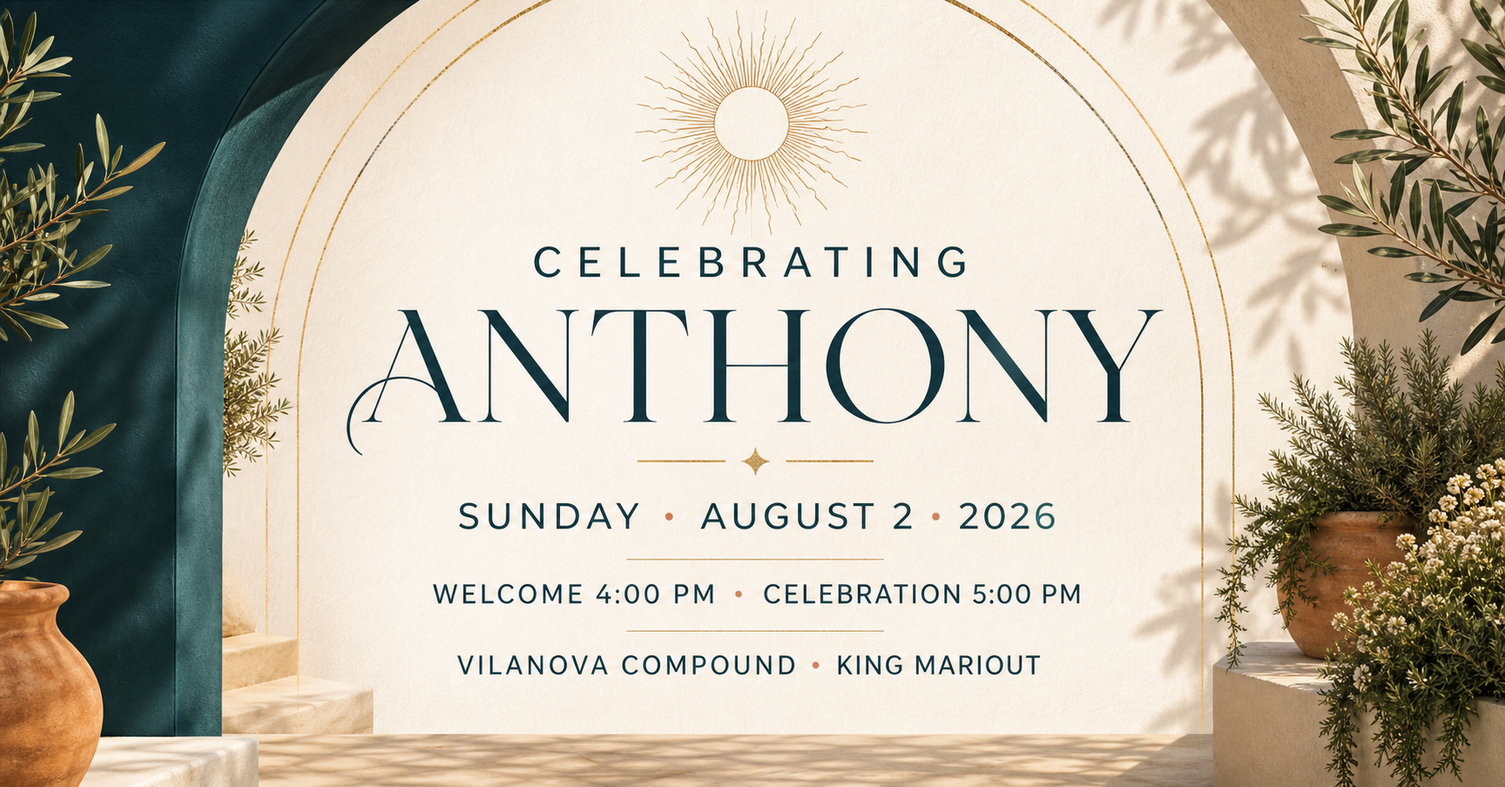
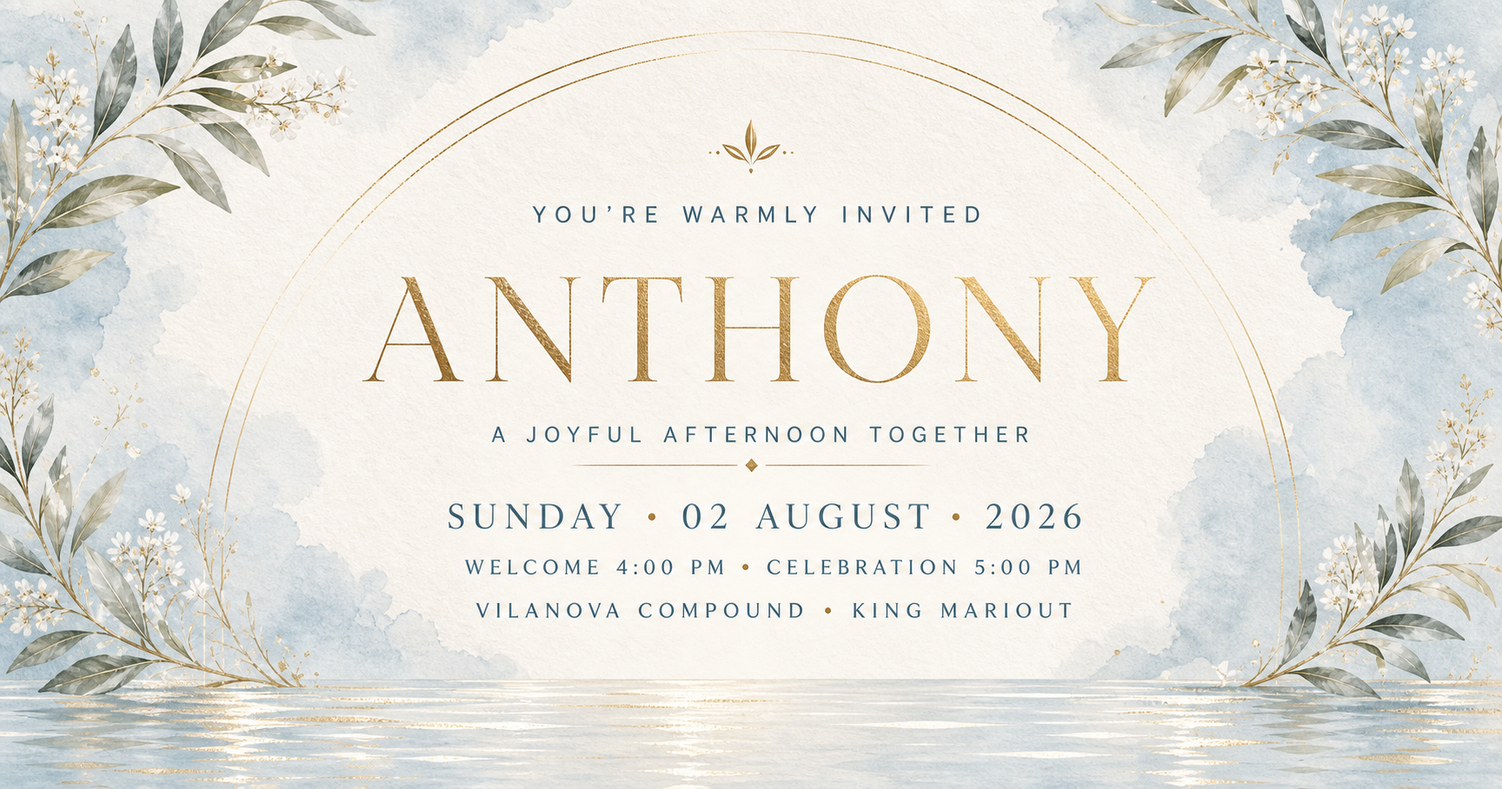
Apply agent-directed invitation redesign

diff --git a/anthony-celebration.html b/anthony-celebration.html
@@ -3,202 +3,145 @@
 <head>
   <meta charset="utf-8">
   <meta name="viewport" content="width=device-width,initial-scale=1,viewport-fit=cover">
-  <meta name="theme-color" content="#edf4f7">
+  <meta name="theme-color" content="#dcebf1">
   <title>Celebrating Anthony · August 2, 2026</title>
   <meta name="description" content="Join us for Anthony's special celebration at Vilanova Compound, King Mariout, Alexandria on August 2, 2026.">
   <meta property="og:title" content="Celebrating Anthony · August 2, 2026">
   <meta property="og:description" content="A beautiful afternoon of joy, love and togetherness at Vilanova Compound, King Mariout.">
   <meta property="og:type" content="website">
-  <meta property="og:url" content="https://abanobsalib.github.io/sofret-mariane-catering/anthony-celebration.html?v=3">
-  <meta property="og:image" content="https://abanobsalib.github.io/sofret-mariane-catering/assets/anthony-celebration-og.png?v=3">
+  <meta property="og:url" content="https://abanobsalib.github.io/sofret-mariane-catering/anthony-celebration.html?v=4">
+  <meta property="og:image" content="https://abanobsalib.github.io/sofret-mariane-catering/assets/anthony-celebration-og.png?v=4">
   <meta name="twitter:card" content="summary_large_image">
   <link rel="preconnect" href="https://fonts.googleapis.com">
   <link rel="preconnect" href="https://fonts.gstatic.com" crossorigin>
-  <link href="https://fonts.googleapis.com/css2?family=DM+Sans:wght@400;500;600;700&family=Italiana&display=swap" rel="stylesheet">
+  <link href="https://fonts.googleapis.com/css2?family=Cormorant+Garamond:wght@400;500;600&family=Manrope:wght@400;500;600;700&display=swap" rel="stylesheet">
   <style>
-    :root{
-      --navy:#173e51;--blue:#769eb4;--blue-soft:#d9e9f0;--sage:#859279;
-      --gold:#c8a25a;--gold-deep:#9e7738;--cream:#fffaf0;--paper:#fffdf7;
-      --ink:#233d47;--muted:#6a7b81;--line:rgba(23,62,81,.13);
-      --shadow:0 34px 90px -42px rgba(32,68,84,.48)
-    }
-    *{box-sizing:border-box}
-    html{scroll-behavior:smooth}
-    body{margin:0;background:#edf4f7;color:var(--ink);font-family:"DM Sans",system-ui,sans-serif;-webkit-font-smoothing:antialiased}
-    button,input,select,textarea{font:inherit}a{color:inherit}button,a{-webkit-tap-highlight-color:transparent}
-    .page{overflow:hidden;background:
-      radial-gradient(circle at 0 6%,rgba(118,158,180,.24),transparent 28rem),
-      radial-gradient(circle at 100% 45%,rgba(200,162,90,.13),transparent 25rem),
-      linear-gradient(180deg,#eaf3f7,#fffaf0 42%,#eef4f0 75%,#f7efe1)}
+    :root{--ink:#18384a;--powder:#ddecf2;--powder-deep:#a9c5d2;--ivory:#fbf7ed;--paper:#fffdf8;--sage:#82917c;--gold:#b89555;--gold-light:#e3c98f;--muted:#6b7d84;--line:rgba(24,56,74,.14);--ease:cubic-bezier(.22,1,.36,1)}
+    *{box-sizing:border-box}html{scroll-behavior:smooth}body{margin:0;background:var(--powder);color:var(--ink);font-family:Manrope,system-ui,sans-serif;-webkit-font-smoothing:antialiased}button,input,select,textarea{font:inherit}button,a{-webkit-tap-highlight-color:transparent}a{color:inherit}
+    .page{overflow:hidden;background:linear-gradient(180deg,#dcebf1 0,#edf4f5 37%,#fbf7ed 69%,#e6eff0 100%)}
 
-    .hero{min-height:100svh;display:grid;place-items:center;padding:28px;position:relative;isolation:isolate}
-    .hero::before{content:"";position:absolute;inset:0;z-index:-2;background:
-      linear-gradient(115deg,rgba(255,255,255,.48),transparent 40%),
-      radial-gradient(circle at 18% 16%,rgba(255,255,255,.85),transparent 19rem)}
-    .hero::after{content:"";position:absolute;inset:auto 0 0;height:18%;z-index:-1;background:linear-gradient(transparent,rgba(238,244,240,.9))}
-    .hero-layout{width:min(1180px,100%);display:grid;grid-template-columns:minmax(430px,.95fr) minmax(420px,1.05fr);align-items:center;gap:clamp(24px,5vw,74px)}
-    .art-card{position:relative;aspect-ratio:4/5;border-radius:36px;overflow:hidden;background:#f8f5eb;box-shadow:0 45px 110px -48px rgba(25,67,84,.65);animation:cardArrive 1s cubic-bezier(.16,.78,.2,1) both}
-    .art-card::before{content:"";position:absolute;inset:0;background:url("assets/anthony-watercolor-invitation-v3.png") center/cover no-repeat;animation:artBreathe 14s ease-in-out infinite;transform:scale(1.015)}
-    .art-card::after{content:"";position:absolute;inset:0;background:linear-gradient(110deg,transparent 34%,rgba(255,255,255,.34) 48%,transparent 62%);transform:translateX(-130%);animation:paperShine 8s 1.2s ease-in-out infinite}
-    .art-copy{position:absolute;z-index:2;inset:15% 13% 16%;display:flex;flex-direction:column;align-items:center;text-align:center;color:var(--navy)}
-    .seal{width:64px;height:64px;border-radius:50%;display:grid;place-items:center;border:1px solid rgba(158,119,56,.55);box-shadow:0 0 0 8px rgba(200,162,90,.08);font-family:Italiana,serif;font-size:1.6rem;color:var(--gold-deep);background:rgba(255,253,247,.58);backdrop-filter:blur(4px);animation:sealFloat 5s ease-in-out infinite}
-    .micro{margin:24px 0 0;font-size:.64rem;font-weight:700;letter-spacing:.27em;text-transform:uppercase;color:#678394}
-    h1{margin:12px 0 0;font-family:Italiana,serif;font-size:clamp(3.4rem,7vw,6.6rem);font-weight:400;line-height:.82;letter-spacing:-.035em}
-    h1 span{display:block;margin-top:14px;font-family:"DM Sans",sans-serif;font-size:.14em;font-weight:600;letter-spacing:.24em;text-transform:uppercase;color:var(--gold-deep)}
-    .art-date{margin-top:26px;padding:11px 17px;border-top:1px solid rgba(158,119,56,.4);border-bottom:1px solid rgba(158,119,56,.4);font-family:Italiana,serif;font-size:clamp(1rem,2.2vw,1.32rem);letter-spacing:.04em}
-    .art-time{margin:12px 0 0;font-size:.75rem;font-weight:600;color:#667e85}.art-place{margin:auto 0 0;font-family:Italiana,serif;font-size:1.22rem}.art-location{margin:5px 0 0;font-size:.66rem;font-weight:600;letter-spacing:.12em;text-transform:uppercase;color:#67808b}
+    .hero{min-height:100svh;display:grid;place-items:center;padding:20px;position:relative;isolation:isolate;background:radial-gradient(circle at 50% 42%,rgba(255,255,255,.88),transparent 33rem),linear-gradient(140deg,#d6e7ed,#f0f3ee 58%,#e8ddc8)}
+    .hero::before,.hero::after{content:"";position:absolute;z-index:-1;border-radius:50%;border:1px solid rgba(184,149,85,.18)}.hero::before{width:430px;height:430px;left:-260px;top:-180px;box-shadow:0 0 0 54px rgba(255,255,255,.09)}.hero::after{width:360px;height:360px;right:-230px;bottom:-140px;box-shadow:0 0 0 44px rgba(184,149,85,.04)}
+    .hero-stage{--tilt-x:0deg;--tilt-y:0deg;--content-x:0px;--content-y:0px;position:relative;width:min(720px,100%);height:min(94svh,920px);min-height:660px;border-radius:360px 360px 30px 30px;overflow:hidden;background:var(--ivory) url("assets/anthony-watercolor-invitation-v3.png?v=4") center/cover no-repeat;box-shadow:0 44px 110px -48px rgba(24,56,74,.52);clip-path:inset(48% 7% round 36px);opacity:0;transform:scale(.975);transition:clip-path 1.05s var(--ease),opacity .55s ease,transform 1.05s var(--ease)}
+    body.is-ready .hero-stage{clip-path:inset(0 round 30px);opacity:1;transform:none}.hero-stage::after{content:"";position:absolute;inset:0;background:linear-gradient(180deg,rgba(255,253,248,.14),rgba(255,253,248,.04) 60%,rgba(255,253,248,.12));pointer-events:none}
+    .dust{position:absolute;inset:0;z-index:2;pointer-events:none}.dust span{position:absolute;width:3px;height:3px;border-radius:50%;background:var(--gold);opacity:0;animation:dustDrift 20s linear infinite}.dust span:nth-child(1){left:18%;top:22%;animation-delay:-2s}.dust span:nth-child(2){left:78%;top:28%;animation-delay:-8s}.dust span:nth-child(3){left:25%;top:58%;animation-delay:-13s}.dust span:nth-child(4){left:83%;top:63%;animation-delay:-5s}.dust span:nth-child(5){left:13%;top:77%;animation-delay:-17s}.dust span:nth-child(6){left:70%;top:84%;animation-delay:-11s}
+    .hero-content{position:relative;z-index:3;height:100%;padding:clamp(80px,11vh,118px) clamp(30px,8vw,82px) clamp(60px,8vh,82px);display:flex;flex-direction:column;align-items:center;text-align:center;transform:translate(var(--content-x),var(--content-y))}
+    .reveal-intro{opacity:0;transform:translateY(14px);transition:opacity .72s var(--ease),transform .72s var(--ease)}body.is-ready .reveal-intro{opacity:1;transform:none}.monogram{width:62px;height:62px;border:1px solid rgba(184,149,85,.56);border-radius:50%;display:grid;place-items:center;background:rgba(255,253,248,.58);font-family:"Cormorant Garamond",serif;font-size:2rem;color:#94713b;transition-delay:.7s}.eyebrow{margin:24px 0 0;font-size:.62rem;font-weight:700;letter-spacing:.28em;text-transform:uppercase;color:#6b8592;transition-delay:.78s}
+    h1{margin:9px 0 0;font-family:"Cormorant Garamond",serif;font-size:clamp(4.8rem,13vw,8rem);font-weight:500;line-height:.74;letter-spacing:-.045em;color:var(--ink);transition-delay:.86s}h1 span{display:block;margin-top:18px;font-family:Manrope,sans-serif;font-size:.11em;font-weight:600;letter-spacing:.25em;text-transform:uppercase;color:#a47b3d}
+    .hero-line{width:76px;height:1px;margin:25px 0 21px;background:linear-gradient(90deg,transparent,var(--gold),transparent);transition-delay:.94s}.date{margin:0;font-family:"Cormorant Garamond",serif;font-size:clamp(1.35rem,3.4vw,1.85rem);font-weight:600;letter-spacing:.035em;transition-delay:1.01s}.time{margin:8px 0 0;color:#627b85;font-size:.76rem;font-weight:600;transition-delay:1.08s}.location{margin:auto 0 0;font-family:"Cormorant Garamond",serif;font-size:1.42rem;font-weight:600;transition-delay:1.15s}.location-sub{margin:3px 0 0;font-size:.62rem;font-weight:700;letter-spacing:.16em;text-transform:uppercase;color:#6d8490;transition-delay:1.2s}
+    .hero-actions{display:flex;justify-content:center;gap:9px;margin-top:21px;transition-delay:1.27s}.btn{min-height:50px;padding:0 19px;border:1px solid transparent;border-radius:999px;display:inline-flex;align-items:center;justify-content:center;gap:8px;text-decoration:none;font-size:.82rem;font-weight:700;cursor:pointer;transition:transform .2s ease,box-shadow .2s ease,background .2s ease}.btn:hover{transform:translateY(-2px)}.btn:active{transform:scale(.98)}.btn-primary{background:var(--ink);color:white;box-shadow:0 18px 38px -23px rgba(24,56,74,.85)}.btn-ghost{background:rgba(255,253,248,.62);border-color:rgba(24,56,74,.16);color:var(--ink);backdrop-filter:blur(8px)}
 
-    .hero-copy{padding:20px 0;animation:copyArrive .9s .15s cubic-bezier(.2,.75,.2,1) both}
-    .eyebrow{margin:0;color:var(--gold-deep);font-size:.69rem;font-weight:700;letter-spacing:.23em;text-transform:uppercase}.display{margin:15px 0 0;font-family:Italiana,serif;font-size:clamp(3.3rem,6.8vw,6.4rem);font-weight:400;line-height:.88;letter-spacing:-.035em;color:var(--navy)}.display em{font-style:normal;color:#7698a9}.intro{max-width:570px;margin:24px 0 0;color:#687a80;font-size:clamp(1rem,1.5vw,1.14rem);line-height:1.8}
-    .info-strip{display:grid;grid-template-columns:1fr 1fr;gap:11px;margin-top:29px}.info-chip{padding:18px;border:1px solid rgba(23,62,81,.12);border-radius:20px;background:rgba(255,255,255,.52);backdrop-filter:blur(12px)}.info-chip b{display:block;color:var(--navy);font-family:Italiana,serif;font-size:1.18rem;font-weight:400}.info-chip span{display:block;margin-top:5px;color:#73858a;font-size:.72rem;font-weight:600}
-    .actions{display:flex;flex-wrap:wrap;gap:10px;margin-top:25px}.btn{min-height:52px;padding:0 21px;border:1px solid transparent;border-radius:999px;display:inline-flex;align-items:center;justify-content:center;gap:9px;text-decoration:none;font-weight:700;font-size:.88rem;cursor:pointer;transition:transform .22s ease,box-shadow .22s ease,background .22s ease}.btn:hover{transform:translateY(-3px)}.btn-primary{background:linear-gradient(135deg,#173e51,#2f6174);color:white;box-shadow:0 18px 38px -22px rgba(23,62,81,.85)}.btn-light{background:rgba(255,255,255,.64);border-color:var(--line);color:var(--navy)}.symbol{font-size:1rem}
-    .scroll-note{position:absolute;left:50%;bottom:22px;transform:translateX(-50%);font-size:.61rem;font-weight:700;letter-spacing:.2em;text-transform:uppercase;color:#70848d;display:flex;align-items:center;gap:10px}.scroll-note::after{content:"";width:30px;height:1px;background:#9ab1bb;animation:scrollPulse 1.8s ease-in-out infinite}
+    .action-rail{width:min(820px,calc(100% - 28px));margin:-27px auto 0;padding:8px;position:relative;z-index:6;display:grid;grid-template-columns:repeat(4,1fr);gap:6px;border:1px solid rgba(255,255,255,.84);border-radius:999px;background:rgba(255,253,248,.86);box-shadow:0 24px 65px -38px rgba(24,56,74,.58);backdrop-filter:blur(18px)}.rail-action{min-height:62px;border:0;border-radius:999px;background:transparent;display:flex;align-items:center;justify-content:center;text-decoration:none;color:#49636e;font-size:.73rem;font-weight:700;letter-spacing:.02em;cursor:pointer;transition:.22s}.rail-action:hover{background:#e8f1f3;color:var(--ink)}
 
-    .content{position:relative}.section{width:min(1120px,100%);margin:0 auto;padding:100px 22px}.section-head{max-width:680px}.section-head.center{margin:auto;text-align:center}.kicker{margin:0;color:var(--gold-deep);font-size:.68rem;font-weight:700;letter-spacing:.23em;text-transform:uppercase}h2{margin:13px 0 0;font-family:Italiana,serif;font-size:clamp(2.8rem,6vw,5rem);font-weight:400;line-height:.94;letter-spacing:-.025em;color:var(--navy)}.section-head p{margin:20px 0 0;color:var(--muted);line-height:1.8}
+    .section{width:min(1040px,100%);margin:0 auto;padding:112px 22px}.kicker{margin:0;font-size:.65rem;font-weight:700;letter-spacing:.24em;text-transform:uppercase;color:#9b763d}h2{margin:12px 0 0;font-family:"Cormorant Garamond",serif;font-size:clamp(3.2rem,7vw,5.5rem);font-weight:500;line-height:.88;letter-spacing:-.035em;color:var(--ink)}.lead{margin:20px 0 0;color:var(--muted);line-height:1.8}.in-view{opacity:1!important;transform:none!important}.scroll-reveal{opacity:0;transform:translateY(18px);transition:opacity .72s ease,transform .72s var(--ease)}
+    .details{display:grid;grid-template-columns:.76fr 1.24fr;gap:clamp(34px,7vw,92px);align-items:start}.date-block{position:sticky;top:35px}.date-number{font-family:"Cormorant Garamond",serif;font-size:clamp(9rem,22vw,15rem);font-weight:400;line-height:.68;letter-spacing:-.08em;color:#89a9b7;mask-image:linear-gradient(#000 68%,transparent);transform:translateY(28px);opacity:0;transition:opacity .9s ease,transform .9s var(--ease)}.date-block.in-view .date-number{opacity:.52;transform:none}.date-caption{margin:25px 0 0;font-family:"Cormorant Garamond",serif;font-size:1.65rem;font-weight:600}.date-caption span{display:block;margin-top:6px;font-family:Manrope,sans-serif;font-size:.7rem;font-weight:600;letter-spacing:.14em;text-transform:uppercase;color:#78909a}
+    .editorial h2{max-width:620px}.editorial .lead{max-width:620px}.program{margin-top:40px;border-top:1px solid var(--line)}.program-row{display:grid;grid-template-columns:84px 1fr auto;gap:22px;align-items:center;padding:25px 0;border-bottom:1px solid var(--line);opacity:0;transform:translateY(14px);transition:opacity .65s ease,transform .65s var(--ease)}.editorial.in-view .program-row{opacity:1;transform:none}.editorial.in-view .program-row:nth-child(2){transition-delay:.08s}.editorial.in-view .program-row:nth-child(3){transition-delay:.16s}.program-row time{font-family:"Cormorant Garamond",serif;font-size:1.25rem;font-weight:600;color:#9e7738}.program-row strong{display:block}.program-row small{display:block;margin-top:5px;color:#78898f;line-height:1.45}.row-arrow{color:#9bb1ba;font-size:1.1rem}
+    .venue-note{margin-top:38px;padding:28px;border-left:1px solid var(--gold);background:linear-gradient(90deg,rgba(255,253,248,.64),transparent)}.venue-name{font-family:"Cormorant Garamond",serif;font-size:1.8rem;font-weight:600}.venue-address{margin-top:6px;color:#71848c;font-size:.78rem;line-height:1.65}.venue-note .btn{margin-top:18px}
 
-    .quick-grid{display:grid;grid-template-columns:repeat(4,1fr);gap:14px;margin-top:38px}.quick{min-height:170px;padding:24px;border:1px solid var(--line);border-radius:28px;background:rgba(255,253,247,.72);box-shadow:0 20px 60px -46px rgba(23,62,81,.55);display:flex;flex-direction:column;align-items:flex-start;text-align:left;color:inherit;text-decoration:none;cursor:pointer;transition:.25s}.quick:hover{transform:translateY(-6px);background:#fff;box-shadow:0 30px 65px -42px rgba(23,62,81,.52)}.quick-icon{width:44px;height:44px;border-radius:14px;display:grid;place-items:center;background:var(--blue-soft);color:var(--navy);font-size:1.15rem}.quick strong{margin-top:auto;color:var(--navy)}.quick small{margin-top:5px;color:#71838a;line-height:1.45}
-
-    .experience{display:grid;grid-template-columns:1.06fr .94fr;gap:20px;margin-top:44px}.venue-card,.timeline-card{border-radius:34px;overflow:hidden;border:1px solid var(--line);box-shadow:var(--shadow)}.venue-card{position:relative;min-height:510px;padding:clamp(34px,6vw,62px);background:linear-gradient(145deg,rgba(23,62,81,.96),rgba(74,112,126,.92));color:white;display:flex;flex-direction:column;justify-content:space-between}.venue-card::before{content:"";position:absolute;width:370px;height:370px;border-radius:50%;right:-170px;top:-190px;border:1px solid rgba(255,255,255,.18);box-shadow:0 0 0 45px rgba(255,255,255,.035),0 0 0 90px rgba(255,255,255,.02)}.venue-card::after{content:"";position:absolute;inset:auto 0 0;height:35%;background:repeating-radial-gradient(ellipse at 50% 110%,rgba(226,205,157,.16) 0 1px,transparent 2px 18px);animation:waterLines 10s linear infinite}.venue-card .kicker{color:#efd8aa}.venue-card h2{color:white;max-width:600px}.venue-card p{max-width:550px;color:rgba(255,255,255,.72);line-height:1.75}.venue-bottom{position:relative;z-index:2}.venue-name{font-family:Italiana,serif;font-size:2.1rem}.venue-address{margin-top:6px;color:rgba(255,255,255,.68);font-size:.82rem;line-height:1.6}.venue-card .btn{margin-top:22px;background:#fff8e8;color:var(--navy)}
-    .timeline-card{padding:clamp(31px,5vw,48px);background:rgba(255,253,247,.82)}.timeline-card h3,.form-card h3{margin:0;font-family:Italiana,serif;font-size:2rem;font-weight:400;color:var(--navy)}.timeline{margin-top:28px}.moment{position:relative;display:grid;grid-template-columns:74px 1fr;gap:18px;padding:0 0 31px}.moment:last-child{padding-bottom:0}.moment::before{content:"";position:absolute;left:35px;top:25px;bottom:4px;width:1px;background:linear-gradient(var(--gold),rgba(200,162,90,.12))}.moment:last-child::before{display:none}.time{width:70px;height:45px;display:grid;place-items:center;border-radius:999px;background:#e6f0f3;color:var(--navy);font-family:Italiana,serif;font-size:1.05rem;position:relative;z-index:1}.moment strong{display:block;color:var(--navy)}.moment small{display:block;margin-top:7px;color:#708188;line-height:1.55}
-
-    .rsvp{position:relative;background:linear-gradient(135deg,#dfecef,#f6f0e4);border-top:1px solid rgba(255,255,255,.75);border-bottom:1px solid rgba(23,62,81,.06);overflow:hidden}.rsvp::before,.rsvp::after{content:"";position:absolute;border-radius:50%;border:1px solid rgba(118,158,180,.18)}.rsvp::before{width:360px;height:360px;left:-200px;top:-150px;box-shadow:0 0 0 46px rgba(118,158,180,.04)}.rsvp::after{width:300px;height:300px;right:-170px;bottom:-140px;box-shadow:0 0 0 42px rgba(200,162,90,.045)}.rsvp-layout{display:grid;grid-template-columns:.78fr 1.22fr;gap:clamp(38px,8vw,90px);align-items:start;position:relative;z-index:1}.rsvp-copy{position:sticky;top:34px}.rsvp-copy p{color:#667b82;line-height:1.85}.privacy-note{margin-top:24px;padding:18px 19px;border-radius:18px;background:rgba(255,255,255,.48);border:1px solid rgba(23,62,81,.08);color:#687d83;font-size:.82rem;line-height:1.6}
-    .form-card{padding:clamp(28px,5vw,49px);border-radius:34px;background:rgba(255,253,247,.95);border:1px solid rgba(255,255,255,.8);box-shadow:0 38px 90px -53px rgba(23,62,81,.56)}.field{margin-top:17px}.field label{display:block;margin-bottom:7px;color:#526c74;font-size:.77rem;font-weight:700}.field input,.field select,.field textarea{width:100%;padding:14px 15px;border:1px solid var(--line);border-radius:15px;background:#fff;color:var(--ink);outline:none;transition:.2s}.field textarea{min-height:92px;resize:vertical}.field input:focus,.field select:focus,.field textarea:focus{border-color:#769eb4;box-shadow:0 0 0 4px rgba(118,158,180,.12)}.field-row{display:grid;grid-template-columns:1fr 1fr;gap:12px}.choice{display:grid;grid-template-columns:1fr 1fr;gap:9px;margin-top:18px}.choice input{position:absolute;opacity:0}.choice label{padding:14px 10px;border:1px solid var(--line);border-radius:15px;background:#fff;text-align:center;font-size:.81rem;font-weight:700;cursor:pointer}.choice input:checked+label{background:var(--navy);border-color:var(--navy);color:white}.submit{width:100%;margin-top:19px;border:0}.fine{margin:11px 0 0;text-align:center;color:#819096;font-size:.68rem;line-height:1.5}
-
-    .share{text-align:center}.share p{max-width:590px;margin:18px auto 0;color:var(--muted);line-height:1.75}.share-actions{display:flex;justify-content:center;flex-wrap:wrap;gap:10px;margin-top:26px}
-    footer{padding:38px 18px 44px;text-align:center;background:var(--navy);color:rgba(255,255,255,.64);font-size:.78rem}.family-mark{margin-bottom:8px;font-family:Italiana,serif;color:#eed59c;font-size:1.4rem;letter-spacing:.2em}
-    .toast{position:fixed;z-index:30;left:50%;bottom:22px;transform:translate(-50%,20px);opacity:0;pointer-events:none;padding:12px 17px;border-radius:999px;background:var(--navy);color:white;font-size:.8rem;font-weight:700;box-shadow:0 20px 48px -22px rgba(0,0,0,.62);transition:.25s}.toast.show{opacity:1;transform:translate(-50%,0)}
-    .reveal{opacity:0;transform:translateY(30px);transition:opacity .8s ease,transform .8s cubic-bezier(.2,.75,.2,1)}.reveal.visible{opacity:1;transform:none}
-
-    @keyframes cardArrive{from{opacity:0;transform:translateY(30px) rotate(-1deg) scale(.975)}to{opacity:1;transform:none}}@keyframes copyArrive{from{opacity:0;transform:translateX(24px)}to{opacity:1;transform:none}}@keyframes artBreathe{0%,100%{transform:scale(1.015)}50%{transform:scale(1.045)}}@keyframes paperShine{0%,58%{transform:translateX(-130%)}78%,100%{transform:translateX(130%)}}@keyframes sealFloat{0%,100%{transform:translateY(0)}50%{transform:translateY(-6px)}}@keyframes scrollPulse{0%,100%{transform:scaleX(.55);transform-origin:left;opacity:.5}50%{transform:scaleX(1);opacity:1}}@keyframes waterLines{to{background-position:70px 0}}
-    @media(max-width:900px){.hero{padding:42px 18px 76px}.hero-layout{grid-template-columns:minmax(0,560px);justify-content:center}.hero-copy{text-align:center}.intro{margin-left:auto;margin-right:auto}.actions{justify-content:center}.art-card{order:2}.hero-copy{order:1}.scroll-note{display:none}.experience,.rsvp-layout{grid-template-columns:1fr}.rsvp-copy{position:static}.quick-grid{grid-template-columns:1fr 1fr}.venue-card{min-height:470px}}
-    @media(max-width:560px){.hero{padding:28px 12px 66px}.hero-layout{gap:28px}.display{font-size:clamp(3.15rem,17vw,4.6rem)}.info-strip{grid-template-columns:1fr}.actions .btn{width:100%}.art-card{border-radius:25px}.art-copy{inset:13% 12% 15%}.seal{width:54px;height:54px}.micro{margin-top:19px;font-size:.56rem}h1{font-size:clamp(3.2rem,17vw,4.6rem)}.art-date{margin-top:20px}.section{padding:76px 16px}.quick-grid{grid-template-columns:1fr}.quick{min-height:135px}.experience{margin-top:32px}.venue-card{min-height:440px;padding:34px 27px}.field-row{grid-template-columns:1fr}.choice label{font-size:.74rem;padding:13px 8px}.rsvp-layout{gap:31px}.form-card{border-radius:26px}}
-    @media(prefers-reduced-motion:reduce){html{scroll-behavior:auto}.art-card,.hero-copy,.art-card::before,.art-card::after,.seal,.venue-card::after,.scroll-note::after{animation:none!important}.reveal{opacity:1;transform:none;transition:none}.btn{transition:none}}
+    .rsvp{position:relative;background:linear-gradient(130deg,#cfe1e8,#eaf1ef 55%,#eee5d3);overflow:hidden}.rsvp::before{content:"";position:absolute;inset:0;background:url("assets/anthony-watercolor-invitation-v3.png?v=4") center/cover no-repeat;opacity:.095;filter:saturate(.7)}.rsvp-grid{position:relative;z-index:1;display:grid;grid-template-columns:.78fr 1.22fr;gap:clamp(35px,8vw,88px);align-items:start}.rsvp-copy{position:sticky;top:34px}.rsvp-copy .lead{max-width:410px}.privacy-note{margin-top:23px;padding:17px 18px;border:1px solid rgba(255,255,255,.55);border-radius:17px;background:rgba(255,255,255,.28);color:#657b84;font-size:.78rem;line-height:1.6;backdrop-filter:blur(8px)}
+    .form-sheet{padding:clamp(28px,5vw,50px);border:1px solid rgba(255,255,255,.88);border-radius:26px;background:rgba(255,253,248,.94);box-shadow:0 38px 88px -50px rgba(24,56,74,.5)}.form-sheet h3{margin:0;font-family:"Cormorant Garamond",serif;font-size:2.25rem;font-weight:600}.field{margin-top:17px}.field label{display:block;margin-bottom:7px;color:#536d78;font-size:.76rem;font-weight:700}.field input,.field select,.field textarea{width:100%;padding:14px 15px;border:1px solid var(--line);border-radius:13px;background:#fffefa;color:var(--ink);outline:none;transition:.2s}.field textarea{min-height:92px;resize:vertical}.field input:focus,.field select:focus,.field textarea:focus{border-color:#8baab8;box-shadow:0 0 0 4px rgba(137,169,183,.12)}.field-row{display:grid;grid-template-columns:1fr 1fr;gap:11px}.choice{display:grid;grid-template-columns:1fr 1fr;gap:9px;margin-top:17px}.choice input{position:absolute;opacity:0}.choice label{padding:14px 9px;border:1px solid var(--line);border-radius:13px;background:#fffefa;text-align:center;font-size:.78rem;font-weight:700;cursor:pointer}.choice input:checked+label{background:var(--ink);border-color:var(--ink);color:white}.submit{width:100%;margin-top:19px;border:0}.fine{margin:10px 0 0;text-align:center;color:#839298;font-size:.66rem;line-height:1.5}
+    footer{padding:42px 18px 46px;text-align:center;background:var(--ink);color:rgba(255,255,255,.62);font-size:.77rem}.family-mark{margin-bottom:8px;font-family:"Cormorant Garamond",serif;font-size:1.5rem;letter-spacing:.2em;color:#e4c98f}
+    .mobile-dock{display:none;position:fixed;z-index:20;left:10px;right:10px;bottom:calc(10px + env(safe-area-inset-bottom));padding:7px;border:1px solid rgba(255,255,255,.86);border-radius:999px;background:rgba(255,253,248,.9);box-shadow:0 20px 55px -25px rgba(24,56,74,.64);backdrop-filter:blur(18px);transform:translateY(130%);transition:transform .45s var(--ease)}.mobile-dock.show{transform:none}.dock-action{height:48px;border:0;border-radius:999px;background:transparent;display:grid;place-items:center;color:var(--ink);font-size:.68rem;font-weight:700;text-decoration:none;cursor:pointer}.dock-action.primary{padding:0 18px;background:var(--ink);color:white;font-size:.76rem}.toast{position:fixed;z-index:30;left:50%;bottom:24px;transform:translate(-50%,18px);opacity:0;pointer-events:none;padding:12px 17px;border-radius:999px;background:var(--ink);color:white;font-size:.78rem;font-weight:700;box-shadow:0 18px 45px -22px rgba(0,0,0,.6);transition:.25s}.toast.show{opacity:1;transform:translate(-50%,0)}
+    @keyframes dustDrift{0%{opacity:0;transform:translateY(18px)}15%{opacity:.22}85%{opacity:.1}100%{opacity:0;transform:translateY(-60px)}}
+    @media(max-width:800px){.hero{padding:0}.hero-stage{width:100%;height:100svh;min-height:680px;border-radius:0;background-position:center}.hero-content{padding:60px 28px 42px}.monogram{width:56px;height:56px}.location{margin-top:auto}.action-rail{grid-template-columns:repeat(4,1fr);border-radius:24px;margin-top:0;width:100%;padding:9px 7px}.rail-action{min-height:58px;font-size:.61rem}.details,.rsvp-grid{grid-template-columns:1fr}.date-block,.rsvp-copy{position:static}.date-number{font-size:10rem}.section{padding:84px 18px}.program-row{grid-template-columns:70px 1fr auto}.mobile-dock{display:grid;grid-template-columns:1.15fr 1fr 1fr}.rsvp{padding-bottom:60px}}
+    @media(max-width:480px){h1{font-size:clamp(4.4rem,22vw,6.4rem)}.hero-content{padding-left:22px;padding-right:22px}.hero-actions{width:100%}.hero-actions .btn{flex:1;padding:0 12px;font-size:.74rem}.date{font-size:1.25rem}.program-row{gap:12px}.field-row{grid-template-columns:1fr}.choice label{font-size:.7rem}.form-sheet{border-radius:20px}.section{padding-left:16px;padding-right:16px}}
+    @media(min-width:801px){.hero-stage{transform:perspective(1000px) rotateX(var(--tilt-y)) rotateY(var(--tilt-x)) scale(.975)}body.is-ready .hero-stage{transform:perspective(1000px) rotateX(var(--tilt-y)) rotateY(var(--tilt-x))}}
+    @media(prefers-reduced-motion:reduce){html{scroll-behavior:auto}.hero-stage,.reveal-intro,.scroll-reveal,.date-number,.program-row,.mobile-dock{transition:none!important}.hero-stage{clip-path:none;opacity:1;transform:none!important}.reveal-intro,.scroll-reveal,.date-number,.program-row{opacity:1;transform:none}.dust{display:none}}
   </style>
 </head>
 <body>
 <div class="page">
-  <header class="hero">
-    <div class="hero-layout">
-      <article class="art-card" aria-label="Anthony celebration invitation card">
-        <div class="art-copy">
-          <div class="seal" aria-hidden="true">A</div>
-          <p class="micro">Together with family & friends</p>
-          <h1>Anthony<span>A special day to celebrate</span></h1>
-          <div class="art-date">Sunday · August 2 · 2026</div>
-          <p class="art-time">Welcome 4:00 PM · Celebration 5:00 PM</p>
-          <p class="art-place">Vilanova Compound</p>
-          <p class="art-location">King Mariout · Alexandria</p>
-        </div>
-      </article>
-
-      <div class="hero-copy">
-        <p class="eyebrow">You’re warmly invited</p>
-        <div class="display">A day of <em>joy, love</em> & togetherness.</div>
-        <p class="intro">Please join us for a beautiful afternoon celebrating Anthony, surrounded by the family and friends who make every moment more meaningful.</p>
-        <div class="info-strip">
-          <div class="info-chip"><b>August 2, 2026</b><span>Sunday afternoon</span></div>
-          <div class="info-chip"><b>From 4:00 PM</b><span>Special moment at 5:00 PM</span></div>
-        </div>
-        <div class="actions">
-          <a class="btn btn-primary" href="#rsvp"><span class="symbol">✓</span> Confirm attendance</a>
-          <a class="btn btn-light" href="https://maps.app.goo.gl/QscCWRWto9ocR7YZ9?g_st=ic" target="_blank" rel="noopener"><span class="symbol">⌖</span> Open exact location</a>
+  <header class="hero" id="hero">
+    <div class="hero-stage">
+      <div class="dust" aria-hidden="true"><span></span><span></span><span></span><span></span><span></span><span></span></div>
+      <div class="hero-content">
+        <div class="monogram reveal-intro" aria-hidden="true">A</div>
+        <p class="eyebrow reveal-intro">You’re warmly invited</p>
+        <h1 class="reveal-intro">Anthony<span>A joyful afternoon together</span></h1>
+        <div class="hero-line reveal-intro" aria-hidden="true"></div>
+        <p class="date reveal-intro">Sunday · 02 August · 2026</p>
+        <p class="time reveal-intro">Welcome 4:00 PM · Celebration 5:00 PM</p>
+        <p class="location reveal-intro">Vilanova Compound</p>
+        <p class="location-sub reveal-intro">King Mariout · Alexandria, Egypt</p>
+        <div class="hero-actions reveal-intro">
+          <a class="btn btn-primary" href="#rsvp">RSVP</a>
+          <a class="btn btn-ghost" href="https://maps.app.goo.gl/QscCWRWto9ocR7YZ9?g_st=ic" target="_blank" rel="noopener">Location</a>
         </div>
       </div>
     </div>
-    <div class="scroll-note" aria-hidden="true">Explore the invitation</div>
   </header>
 
-  <main class="content">
-    <section class="section">
-      <div class="section-head center reveal">
-        <p class="kicker">Everything in one place</p>
-        <h2>Your invitation, beautifully simple.</h2>
-        <p>Directions, timing, RSVP, and sharing are all ready whenever you need them.</p>
-      </div>
-      <div class="quick-grid reveal">
-        <a class="quick" href="https://maps.app.goo.gl/QscCWRWto9ocR7YZ9?g_st=ic" target="_blank" rel="noopener"><span class="quick-icon">⌖</span><strong>Directions</strong><small>Open the exact Vilanova Compound pin.</small></a>
-        <button class="quick" id="calendarBtn" type="button"><span class="quick-icon">＋</span><strong>Add to calendar</strong><small>Save the date and location instantly.</small></button>
-        <button class="quick" id="whatsappShare" type="button"><span class="quick-icon">◉</span><strong>WhatsApp</strong><small>Share the invitation with loved ones.</small></button>
-        <button class="quick" id="copyLink" type="button"><span class="quick-icon">↗</span><strong>Copy link</strong><small>Paste the invitation anywhere.</small></button>
-      </div>
+  <nav class="action-rail" aria-label="Invitation actions">
+    <a class="rail-action" href="#rsvp">RSVP</a>
+    <a class="rail-action" href="https://maps.app.goo.gl/QscCWRWto9ocR7YZ9?g_st=ic" target="_blank" rel="noopener">Directions</a>
+    <button class="rail-action" id="calendarBtn" type="button">Calendar</button>
+    <button class="rail-action" id="whatsappShare" type="button">WhatsApp</button>
+  </nav>
 
-      <div class="experience">
-        <article class="venue-card reveal">
-          <div>
-            <p class="kicker">The gathering place</p>
-            <h2>Meet us under the Alexandria sky.</h2>
-            <p>A relaxed garden afternoon created for every person we love—family, old friends, and new friends alike.</p>
-          </div>
-          <div class="venue-bottom">
-            <div class="venue-name">Vilanova Compound</div>
-            <div class="venue-address">King Mariout · Bahig · Borg El Arab<br>Alexandria Governorate, Egypt</div>
-            <a class="btn" href="https://maps.app.goo.gl/QscCWRWto9ocR7YZ9?g_st=ic" target="_blank" rel="noopener">Get directions&nbsp; →</a>
-          </div>
-        </article>
-
-        <article class="timeline-card reveal">
-          <h3>The afternoon</h3>
-          <div class="timeline">
-            <div class="moment"><div class="time">4:00</div><div><strong>A warm welcome</strong><small>Arrive, settle in, and enjoy time together.</small></div></div>
-            <div class="moment"><div class="time">5:00</div><div><strong>Anthony’s celebration</strong><small>The special moment, surrounded by the people we love.</small></div></div>
-            <div class="moment"><div class="time">After</div><div><strong>Food, photos & joy</strong><small>A relaxed evening of delicious bites and happy memories.</small></div></div>
-          </div>
-        </article>
+  <main>
+    <section class="section details">
+      <div class="date-block scroll-reveal">
+        <div class="date-number">02</div>
+        <div class="date-caption">August 2026<span>Sunday · From 4:00 PM</span></div>
+      </div>
+      <div class="editorial scroll-reveal">
+        <p class="kicker">A beautiful day awaits</p>
+        <h2>Joy feels brighter when we share it.</h2>
+        <p class="lead">Please join us for a relaxed afternoon celebrating Anthony with wonderful food, happy photographs, and the people who make life special.</p>
+        <div class="program">
+          <div class="program-row"><time>4:00</time><div><strong>A warm welcome</strong><small>Arrive, settle in, and enjoy time together.</small></div><span class="row-arrow">→</span></div>
+          <div class="program-row"><time>5:00</time><div><strong>Anthony’s celebration</strong><small>The special moment, surrounded by family and friends.</small></div><span class="row-arrow">→</span></div>
+          <div class="program-row"><time>After</time><div><strong>Food, photos & joy</strong><small>A relaxed evening filled with memories.</small></div><span class="row-arrow">→</span></div>
+        </div>
+        <div class="venue-note">
+          <div class="venue-name">Vilanova Compound</div>
+          <div class="venue-address">King Mariout · Bahig · Borg El Arab<br>Alexandria Governorate, Egypt</div>
+          <a class="btn btn-ghost" href="https://maps.app.goo.gl/QscCWRWto9ocR7YZ9?g_st=ic" target="_blank" rel="noopener">Open exact location&nbsp; →</a>
+        </div>
       </div>
     </section>
 
     <section class="rsvp" id="rsvp">
-      <div class="section rsvp-layout">
-        <div class="rsvp-copy reveal">
+      <div class="section rsvp-grid">
+        <div class="rsvp-copy scroll-reveal">
           <p class="kicker">Kindly reply</p>
           <h2>We saved a place for you.</h2>
-          <p>Let us know who is coming. Your response will open directly in WhatsApp, ready to send to the family.</p>
-          <div class="privacy-note">Your details stay on your device until you choose to send the prepared message through WhatsApp.</div>
+          <p class="lead">Tell us who is coming. Your reply opens directly in WhatsApp, ready to send to the family.</p>
+          <div class="privacy-note">Your information stays on your device until you choose to send the prepared WhatsApp message.</div>
         </div>
-        <form class="form-card reveal" id="rsvpForm">
+        <form class="form-sheet scroll-reveal" id="rsvpForm">
           <h3>Guest confirmation</h3>
           <div class="field"><label for="guestName">Your name</label><input id="guestName" name="guestName" autocomplete="name" required placeholder="Full name"></div>
-          <div class="choice" role="radiogroup" aria-label="Attendance">
-            <input id="yes" type="radio" name="attendance" value="Joyfully attending" checked><label for="yes">Joyfully attending</label>
-            <input id="no" type="radio" name="attendance" value="Sorry, cannot attend"><label for="no">Cannot attend</label>
-          </div>
-          <div class="field-row">
-            <div class="field"><label for="adults">Adults</label><select id="adults" name="adults"><option>1</option><option>2</option><option>3</option><option>4</option><option>5</option><option>6</option></select></div>
-            <div class="field"><label for="children">Children</label><select id="children" name="children"><option>0</option><option>1</option><option>2</option><option>3</option><option>4</option><option>5</option></select></div>
-          </div>
+          <div class="choice" role="radiogroup" aria-label="Attendance"><input id="yes" type="radio" name="attendance" value="Joyfully attending" checked><label for="yes">Joyfully attending</label><input id="no" type="radio" name="attendance" value="Sorry, cannot attend"><label for="no">Cannot attend</label></div>
+          <div class="field-row"><div class="field"><label for="adults">Adults</label><select id="adults" name="adults"><option>1</option><option>2</option><option>3</option><option>4</option><option>5</option><option>6</option></select></div><div class="field"><label for="children">Children</label><select id="children" name="children"><option>0</option><option>1</option><option>2</option><option>3</option><option>4</option><option>5</option></select></div></div>
           <div class="field"><label for="message">A note for the family (optional)</label><textarea id="message" name="message" placeholder="Dietary needs, a kind note, or anything we should know"></textarea></div>
-          <button class="btn btn-primary submit" type="submit"><span class="symbol">◉</span> Send RSVP on WhatsApp</button>
+          <button class="btn btn-primary submit" id="rsvpSubmit" type="submit"><span>Send RSVP on WhatsApp</span></button>
           <p class="fine">Review the prepared message in WhatsApp, then tap Send.</p>
         </form>
       </div>
-    </section>
-
-    <section class="section share reveal">
-      <p class="kicker">Bring everyone together</p>
-      <h2>Share the joy.</h2>
-      <p>Send Anthony’s invitation to friends and family with one tap.</p>
-      <div class="share-actions"><button class="btn btn-primary" id="whatsappShareBottom" type="button">Share on WhatsApp</button><button class="btn btn-light" id="copyLinkBottom" type="button">Copy invitation link</button></div>
     </section>
   </main>
 
   <footer><div class="family-mark">A · K · T · A</div>With love from Abanob, Karine, Talia & Anthony</footer>
 </div>
+
+<div class="mobile-dock" id="mobileDock"><a class="dock-action primary" href="#rsvp">RSVP</a><a class="dock-action" href="https://maps.app.goo.gl/QscCWRWto9ocR7YZ9?g_st=ic" target="_blank" rel="noopener">Location</a><button class="dock-action" id="dockShare" type="button">Share</button></div>
 <div class="toast" id="toast" role="status" aria-live="polite"></div>
+
 <script>
   const EVENT={title:"Celebrating Anthony",dateText:"Sunday, August 2, 2026",timeText:"Welcome from 4:00 PM · Celebration at 5:00 PM",venue:"Vilanova Compound, King Mariout, Bahig, Borg El Arab, Alexandria, Egypt",map:"https://maps.app.goo.gl/QscCWRWto9ocR7YZ9?g_st=ic",organizerWhatsApp:"201223226196"};
-  const toast=message=>{const node=document.getElementById("toast");node.textContent=message;node.classList.add("show");clearTimeout(window.toastTimer);window.toastTimer=setTimeout(()=>node.classList.remove("show"),2600)};
-  const invitationUrl=()=>location.origin+location.pathname+"?v=3";
+  requestAnimationFrame(()=>requestAnimationFrame(()=>document.body.classList.add("is-ready")));
+  const toast=message=>{const node=document.getElementById("toast");node.textContent=message;node.classList.add("show");clearTimeout(window.toastTimer);window.toastTimer=setTimeout(()=>node.classList.remove("show"),2500)};
+  const invitationUrl=()=>location.origin+location.pathname+"?v=4";
   const shareText=()=>`You’re invited to celebrate Anthony!\n\n${EVENT.dateText}\n${EVENT.timeText}\n${EVENT.venue}\n\nLocation: ${EVENT.map}\nInvitation: ${invitationUrl()}`;
   const openWhatsApp=(text,recipient="")=>window.open(`https://wa.me/${recipient}?text=${encodeURIComponent(text)}`,"_blank","noopener");
   const shareInvitation=()=>openWhatsApp(shareText());
-  const copyInvitation=async()=>{try{await navigator.clipboard.writeText(invitationUrl());toast("Invitation link copied")}catch{toast("Press and hold the address bar to copy the link")}};
-  document.getElementById("whatsappShare").addEventListener("click",shareInvitation);
-  document.getElementById("whatsappShareBottom").addEventListener("click",shareInvitation);
-  document.getElementById("copyLink").addEventListener("click",copyInvitation);
-  document.getElementById("copyLinkBottom").addEventListener("click",copyInvitation);
-  document.getElementById("rsvpForm").addEventListener("submit",event=>{event.preventDefault();const data=new FormData(event.currentTarget);const attendance=data.get("attendance");const lines=["RSVP — Anthony’s Celebration","",`Name: ${data.get("guestName")}`,`Response: ${attendance}`];if(attendance==="Joyfully attending")lines.push(`Guests: ${data.get("adults")} adult(s), ${data.get("children")} child(ren)`);if(data.get("message").trim())lines.push(`Note: ${data.get("message").trim()}`);lines.push("",`${EVENT.dateText} · ${EVENT.venue}`);openWhatsApp(lines.join("\n"),EVENT.organizerWhatsApp)});
-  document.getElementById("calendarBtn").addEventListener("click",()=>{const content=["BEGIN:VCALENDAR","VERSION:2.0","PRODID:-//Anthony Celebration//EN","BEGIN:VEVENT","UID:anthony-20260802@celebration","DTSTAMP:20260721T120000Z","DTSTART:20260802T130000Z","DTEND:20260802T180000Z",`SUMMARY:${EVENT.title}`,`LOCATION:${EVENT.venue}`,`DESCRIPTION:${EVENT.timeText}\\nDirections: ${EVENT.map}`,"END:VEVENT","END:VCALENDAR"].join("\r\n");const link=document.createElement("a");link.href=URL.createObjectURL(new Blob([content],{type:"text/calendar"}));link.download="anthony-celebration-august-2-2026.ics";link.click();URL.revokeObjectURL(link.href)});
-  const observer=new IntersectionObserver(entries=>entries.forEach(entry=>{if(entry.isIntersecting){entry.target.classList.add("visible");observer.unobserve(entry.target)}}),{threshold:.12});document.querySelectorAll(".reveal").forEach(node=>observer.observe(node));
+  document.getElementById("whatsappShare").addEventListener("click",shareInvitation);document.getElementById("dockShare").addEventListener("click",shareInvitation);
+  document.getElementById("rsvpForm").addEventListener("submit",event=>{event.preventDefault();const data=new FormData(event.currentTarget);const attendance=data.get("attendance");const lines=["RSVP — Anthony’s Celebration","",`Name: ${data.get("guestName")}`,`Response: ${attendance}`];if(attendance==="Joyfully attending")lines.push(`Guests: ${data.get("adults")} adult(s), ${data.get("children")} child(ren)`);if(data.get("message").trim())lines.push(`Note: ${data.get("message").trim()}`);lines.push("",`${EVENT.dateText} · ${EVENT.venue}`);const button=document.getElementById("rsvpSubmit");button.querySelector("span:last-child").textContent="Opening WhatsApp…";openWhatsApp(lines.join("\n"),EVENT.organizerWhatsApp);setTimeout(()=>button.querySelector("span:last-child").textContent="Send RSVP on WhatsApp",1500)});
+  document.getElementById("calendarBtn").addEventListener("click",()=>{const content=["BEGIN:VCALENDAR","VERSION:2.0","PRODID:-//Anthony Celebration//EN","BEGIN:VEVENT","UID:anthony-20260802@celebration","DTSTAMP:20260721T120000Z","DTSTART:20260802T130000Z","DTEND:20260802T180000Z",`SUMMARY:${EVENT.title}`,`LOCATION:${EVENT.venue}`,`DESCRIPTION:${EVENT.timeText}\\nDirections: ${EVENT.map}`,"END:VEVENT","END:VCALENDAR"].join("\r\n"),url=URL.createObjectURL(new Blob([content],{type:"text/calendar"})),link=document.createElement("a");link.href=url;link.download="anthony-celebration-august-2-2026.ics";link.hidden=true;document.body.appendChild(link);link.click();link.remove();setTimeout(()=>URL.revokeObjectURL(url),2000)});
+  const revealObserver=new IntersectionObserver(entries=>entries.forEach(entry=>{if(entry.isIntersecting){entry.target.classList.add("in-view");revealObserver.unobserve(entry.target)}}),{threshold:.13});document.querySelectorAll(".scroll-reveal").forEach(node=>revealObserver.observe(node));
+  const hero=document.getElementById("hero"),stage=document.querySelector(".hero-stage");if(matchMedia("(min-width:801px) and (prefers-reduced-motion:no-preference)").matches){let frame;hero.addEventListener("pointermove",event=>{cancelAnimationFrame(frame);frame=requestAnimationFrame(()=>{const box=hero.getBoundingClientRect(),x=((event.clientX-box.left)/box.width-.5)*2,y=((event.clientY-box.top)/box.height-.5)*2;stage.style.setProperty("--tilt-x",`${x*.35}deg`);stage.style.setProperty("--tilt-y",`${y*-.35}deg`);stage.style.setProperty("--content-x",`${x*-2}px`);stage.style.setProperty("--content-y",`${y*-2}px`)})});hero.addEventListener("pointerleave",()=>{stage.style.setProperty("--tilt-x","0deg");stage.style.setProperty("--tilt-y","0deg");stage.style.setProperty("--content-x","0px");stage.style.setProperty("--content-y","0px")})}
+  const dock=document.getElementById("mobileDock"),rsvp=document.getElementById("rsvp");const dockObserver=new IntersectionObserver(entries=>entries.forEach(entry=>{if(entry.target===hero)dock.classList.toggle("show",!entry.isIntersecting);if(entry.target===rsvp&&entry.isIntersecting)dock.classList.remove("show")}),{threshold:.1});dockObserver.observe(hero);dockObserver.observe(rsvp);
 </script>
 </body>
 </html>
